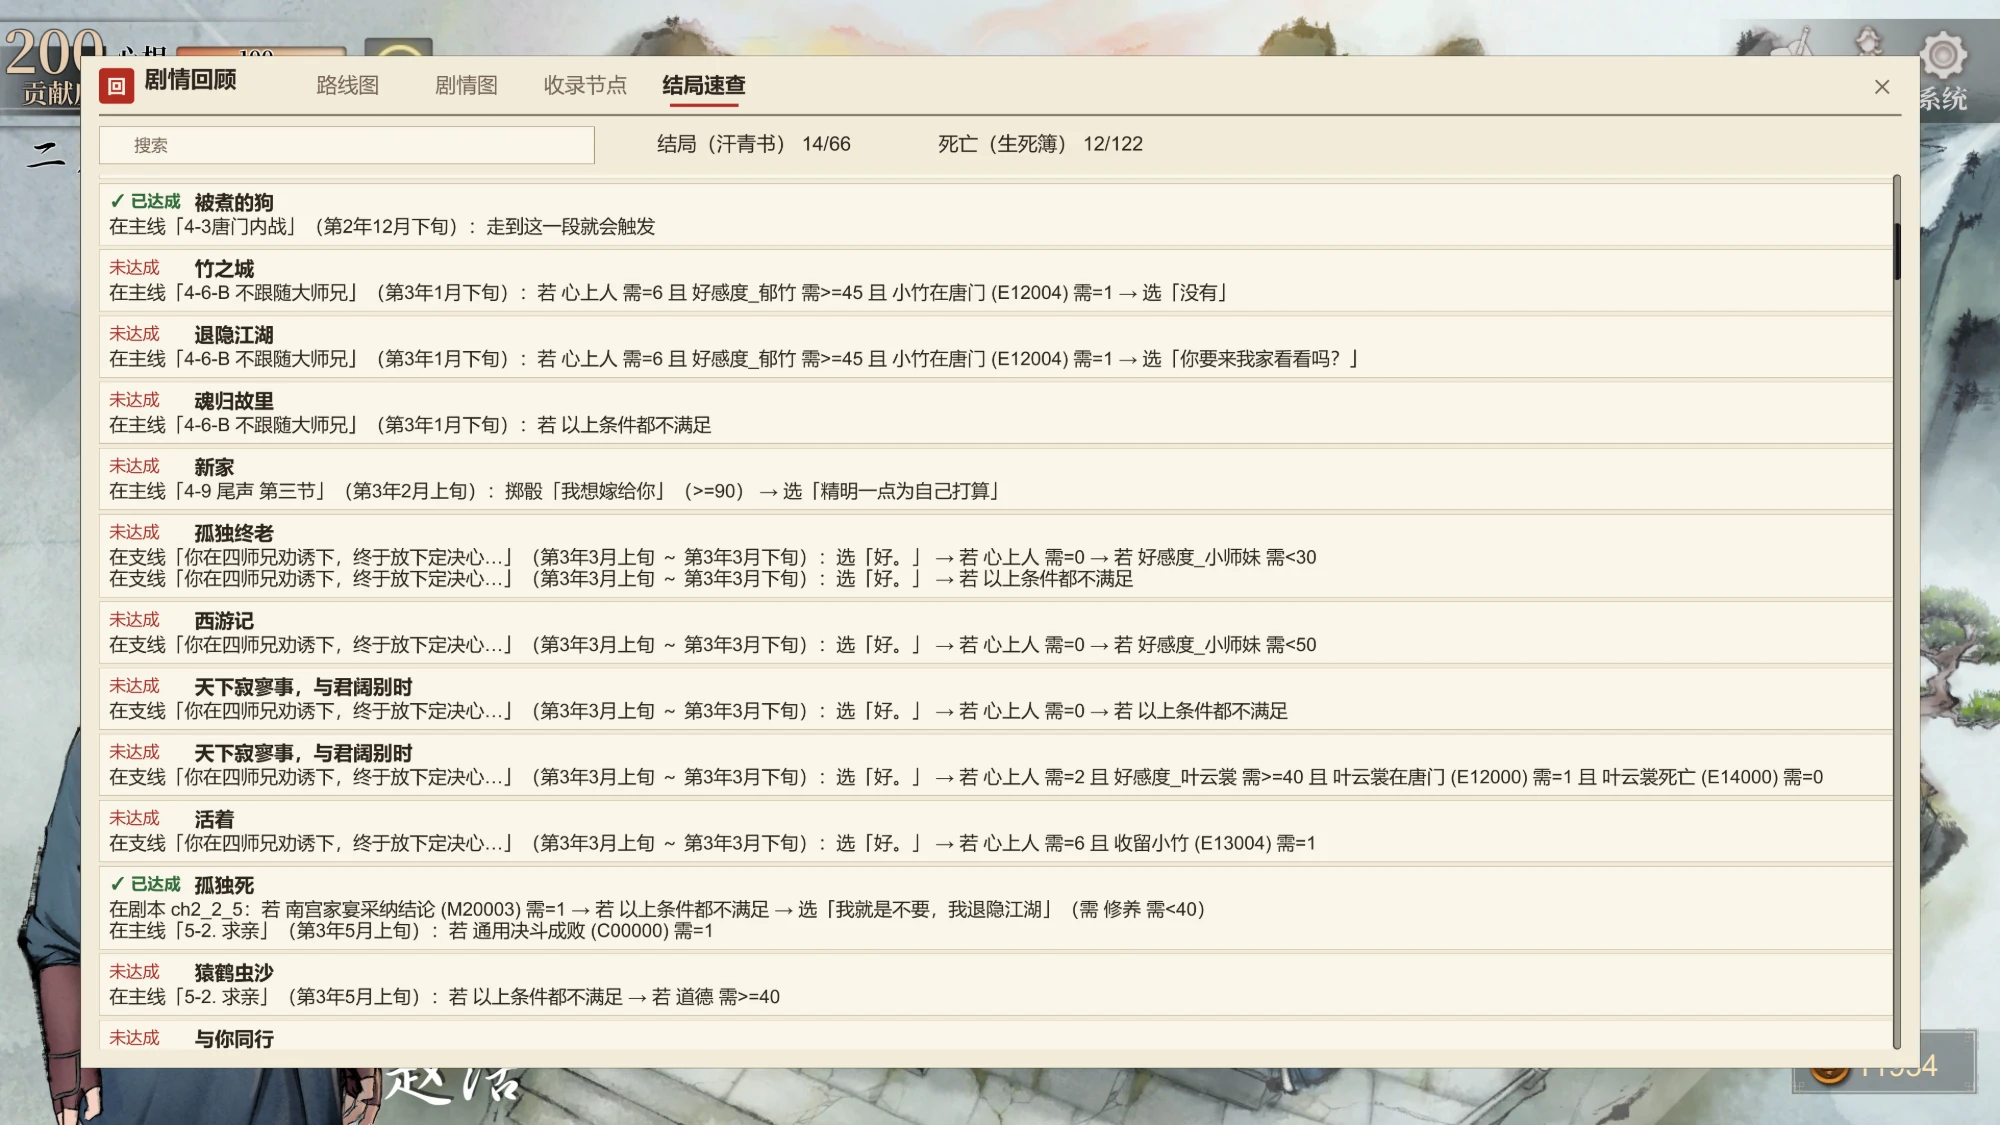
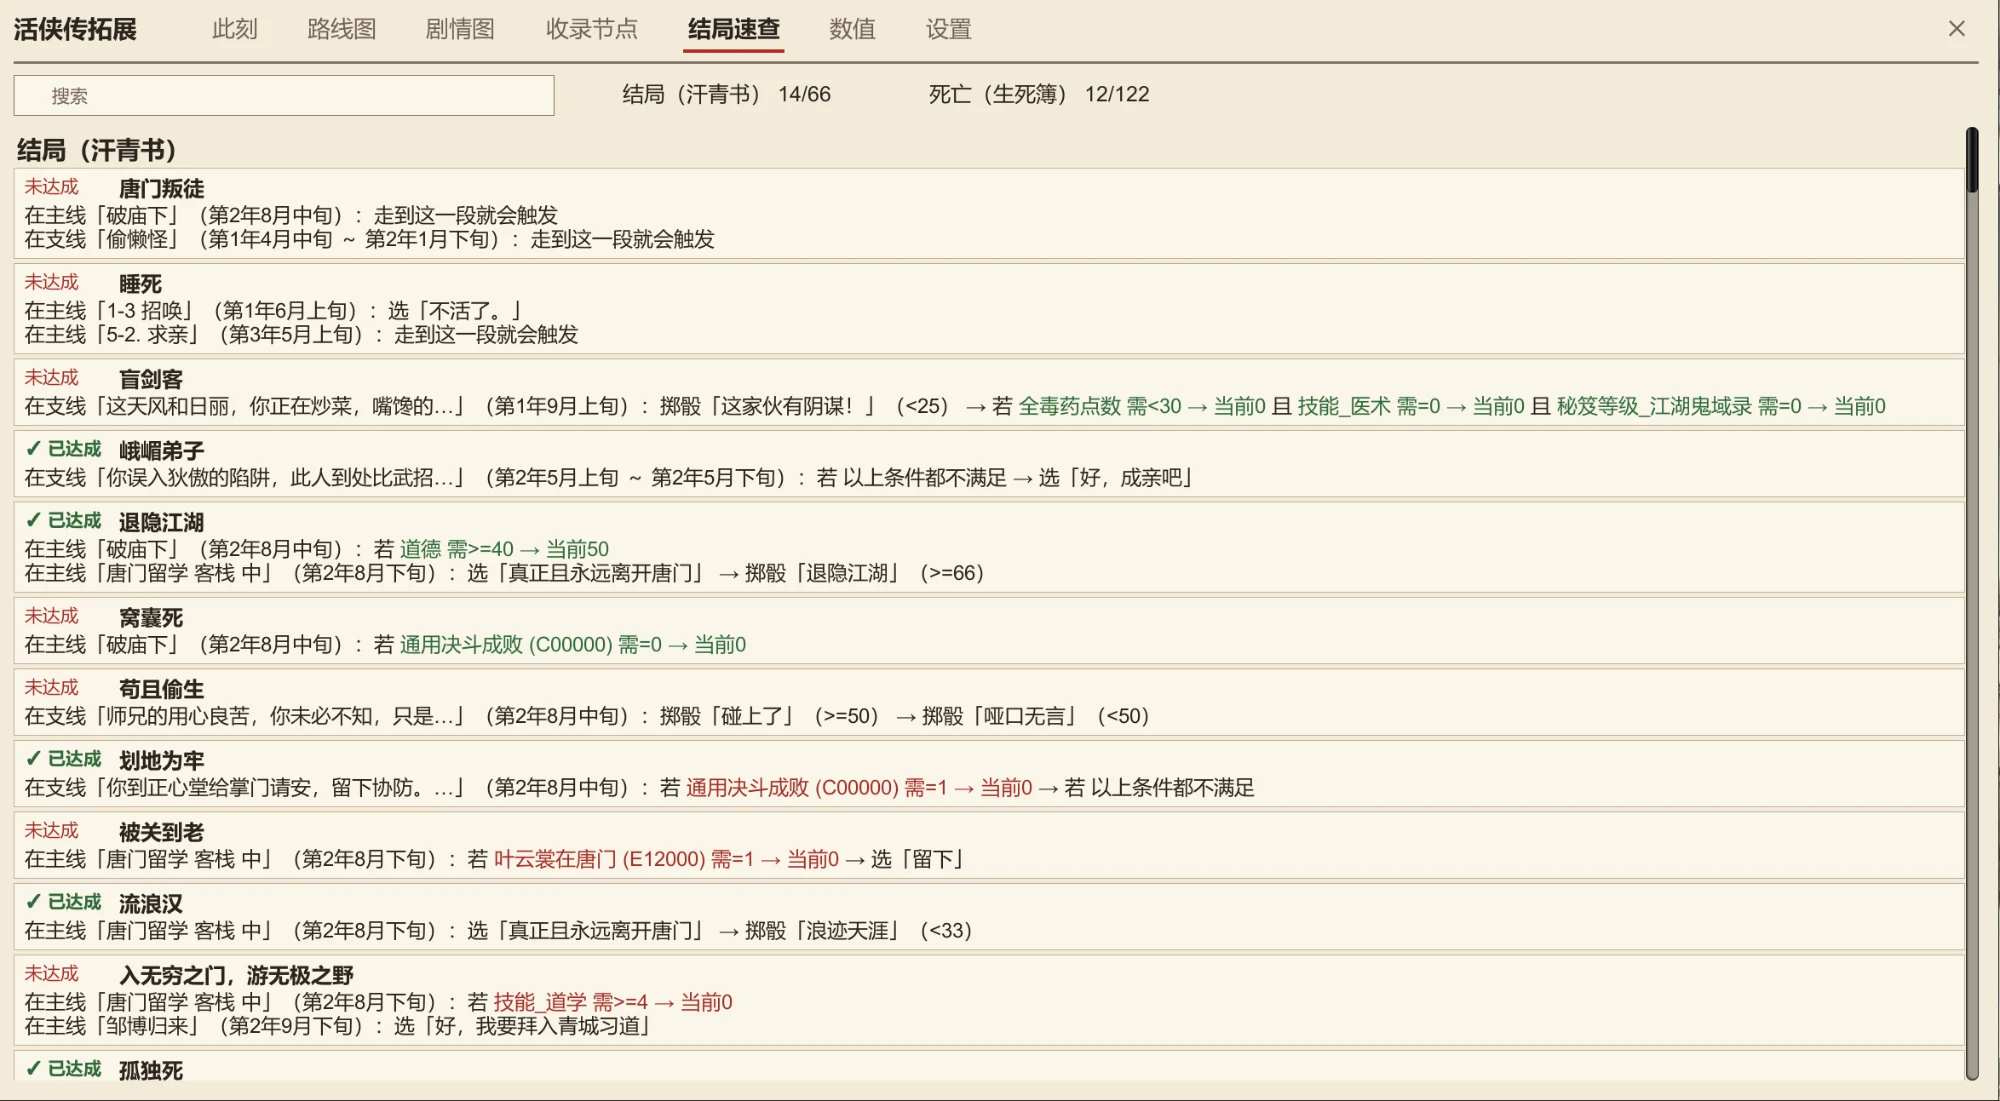
README：换上 2.1 的截图（此刻、路线图、剧情图、收录节点、结局速查、数值、设置、安装器）

diff --git a/README.md b/README.md
@@ -16,6 +16,8 @@
 - 已知会冲突的旧 Mod 移到 `BepInEx\已停用的Mod`，不删除；不改动你的设置。
 - 以后更新再运行一次即可。Windows 提示「已保护你的电脑」时，点「更多信息」→「仍要运行」。
 
+<img src="media/installer.webp" width="360" alt="安装器：一键安装 / 更新、导出诊断、卸载">
+
 **手动安装**：Steam 中右键《活侠传》→ 管理 → 浏览本地文件，把压缩包里的所有内容解压到游戏目录，提示同名文件时选覆盖。先删掉 `BepInEx\plugins` 里的旧版骰子大师、多功能 Mod、赵活系统等同类 Mod，它们和本 Mod 改的是同一批游戏代码。
 
 **卸载**：运行安装器，点「卸载本 Mod」。会删掉本 Mod 和它的配置、恢复开头 Logo；没有别的 Mod 了就连 BepInEx 一起删，游戏目录回到没装 Mod 的样子。存档不受影响。
@@ -38,8 +40,11 @@
 
 ### 剧情辅助
 
-- **剧情回顾**（Tab）：看清整个游戏的剧情怎么走，还能回到之前的剧情重玩。分五页：
+- **剧情回顾**（Tab 打开活侠传拓展窗口）：看清整个游戏的剧情怎么走，还能回到之前的剧情重玩。分五页：
   - **此刻**：打开就是这一页，只讲眼下。这一段剧情的每个选项、转盘会有什么结果（完整显示，不截断）和分支要什么条件；当前地点的随机事件、概率、条件和结果，满足条件的可以点「下次触发这个」直接选定；现在的任务，满足条件的写明去哪里触发，没满足的写出还差什么。
+
+    <img src="media/story-now.webp" width="640" alt="此刻：当前地点的随机事件、概率、条件和结果">
+
   - **路线图**：整个游戏的主线按时间从左到右排开，一站是一个主线任务。路线分岔的地方会分成上下几条线，支线列在下面。
     - 圆圈越黑，说明这段对白读得越多；打勾的是这一局走过的；盖红色「今」字的是你现在所在的主线。
     - 点一站，可以看它什么时候、在哪触发，需要什么条件（还会写出你现在的数值），以及站里有哪些岔路、怎么进去。
@@ -127,6 +132,8 @@
 - **旗标**一千多面全都在，按编号或中文说明搜（如「孟仙谣」「好感」「神兵帖」），分页显示，鼠标停在名字上看完整说明。
 - 顶上的搜索框对所有段落都有效。
 
+<img src="media/stats.webp" width="640" alt="数值页：角色数值、武功、门派、好感都能加减或直接设定">
+
 乱改数值、旗标可能让剧情出错，改之前先存档。
 
 ### 其他
@@ -151,6 +158,8 @@
 ## 设置
 
 所有设置都在活侠传拓展窗口（Tab）的「设置」页里，分组排开，改了马上保存；要重启游戏才生效的会标出来，鼠标停在名字上看详细说明。按 F8 直接打开这一页。
+
+<img src="media/settings.webp" width="640" alt="设置页：开关、数字、倍速和热键分组排开">
 
 设置也保存在 `BepInEx\config\LOMAssistant.cfg`，每项都有中文说明，直接改文件的话改完重启游戏生效。
 
